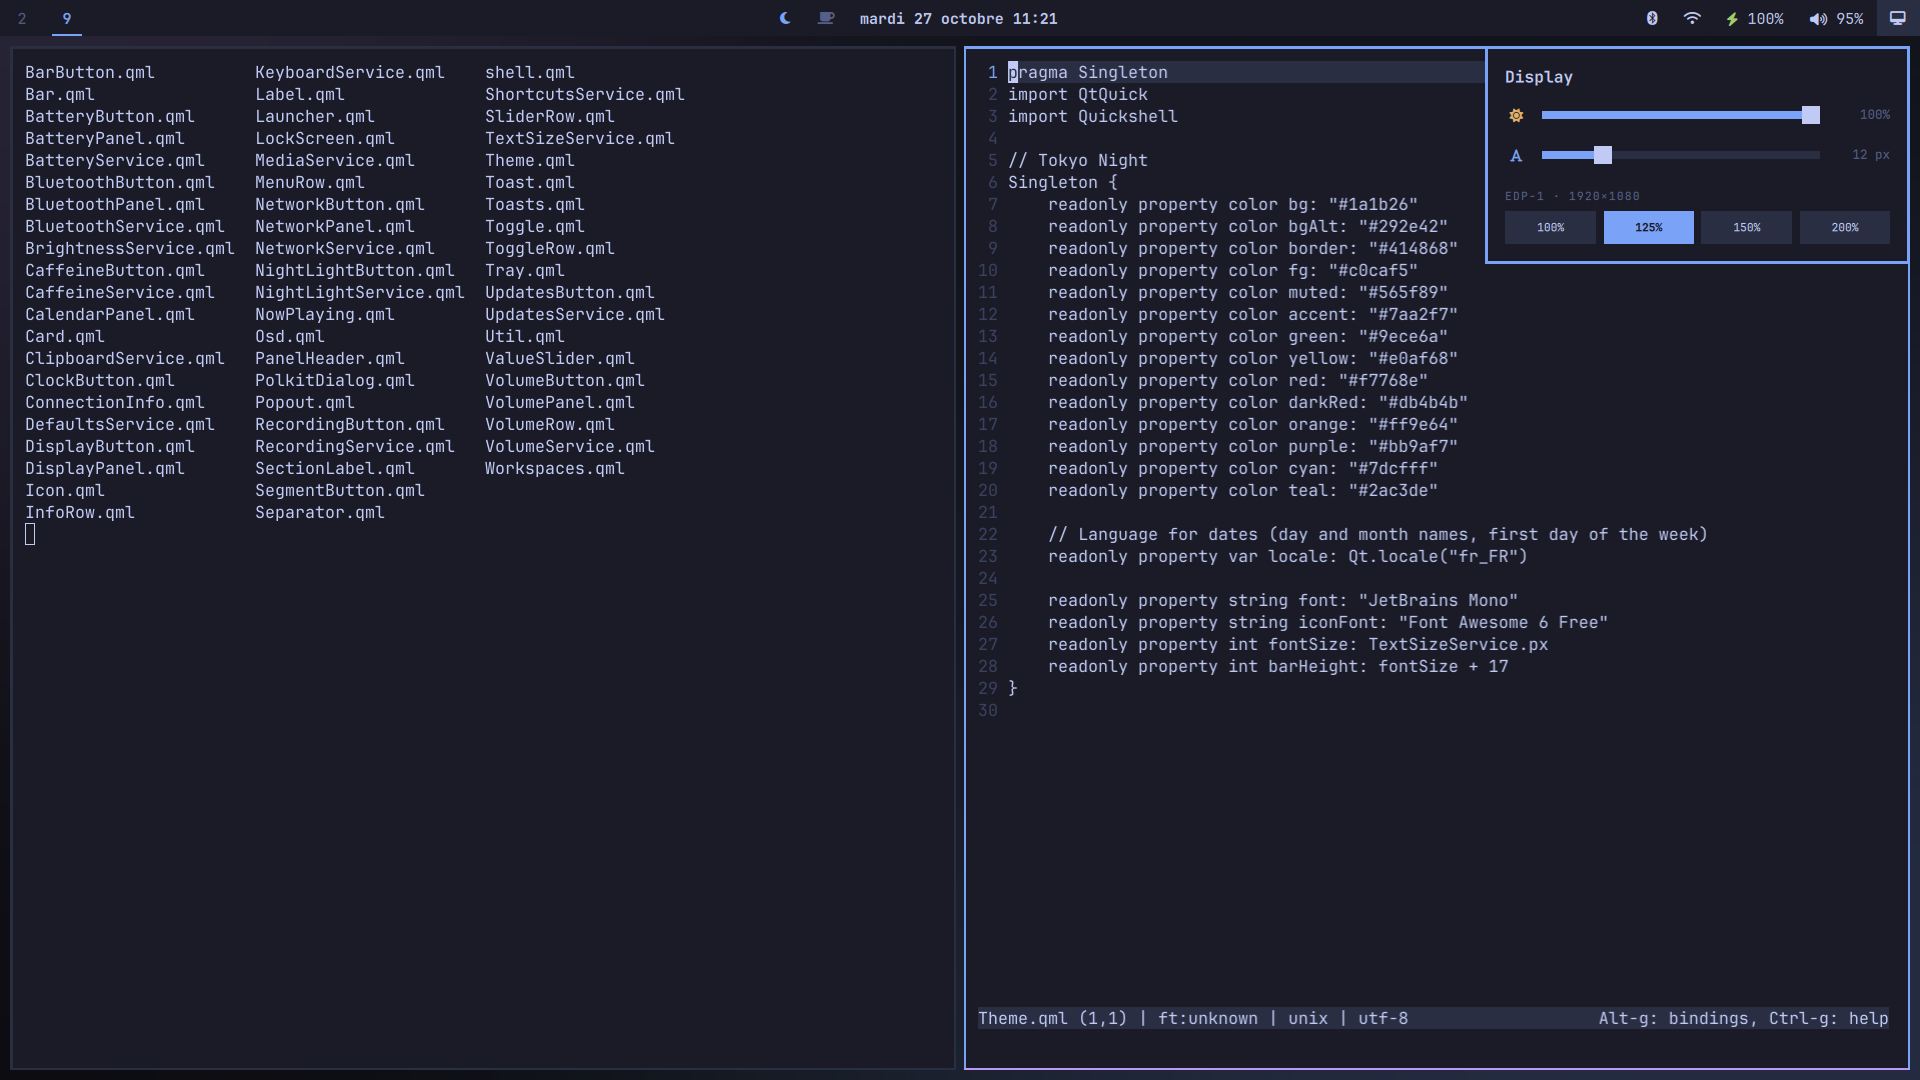
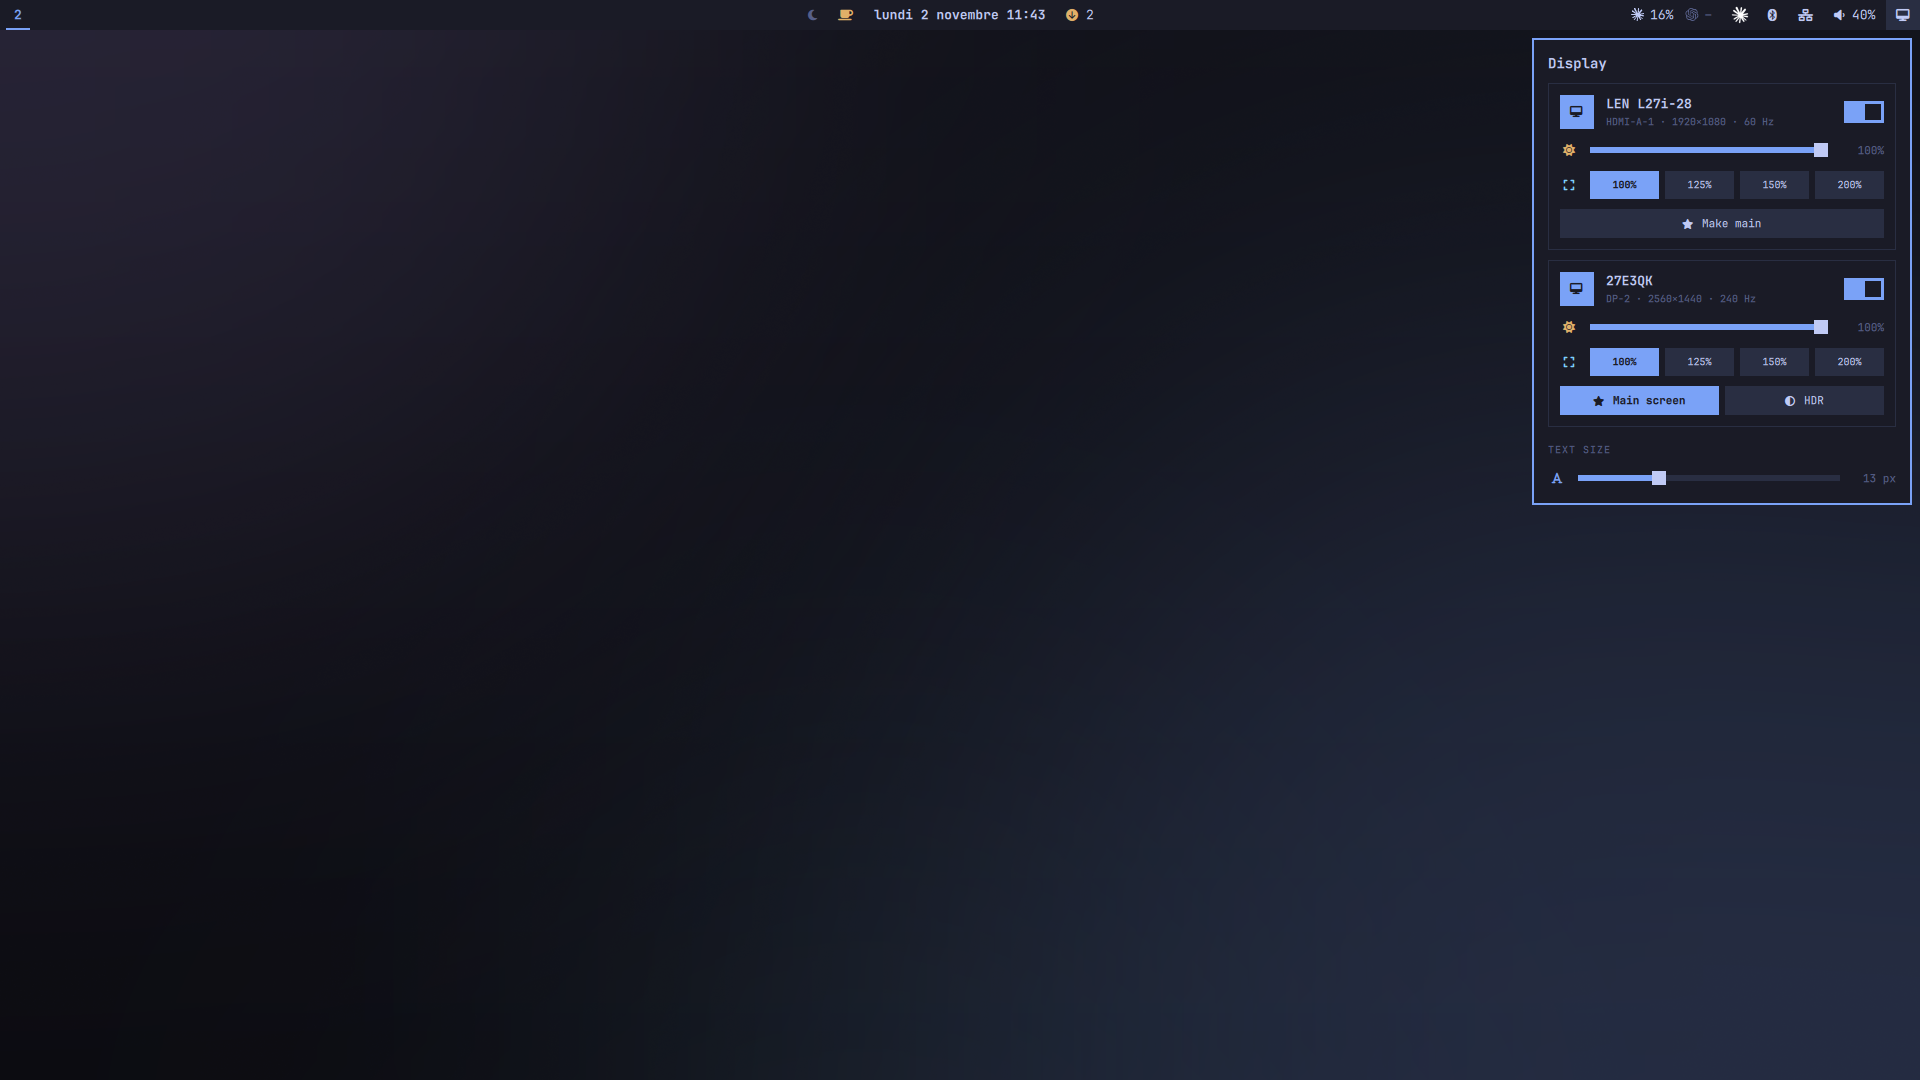
Display panel: redesigned, one card per screen

diff --git a/config/quickshell/DisplayPanel.qml b/config/quickshell/DisplayPanel.qml
@@ -2,13 +2,56 @@ import QtQuick
 import QtQuick.Layouts
 import Quickshell
 
+// One framed card per screen (on/off, brightness, scale, main screen, HDR), then the
+// shell's text size
 Popout {
     id: root
 
     readonly property var scales: [1, 1.25, 1.5, 2]
     readonly property int textRange: TextSizeService.maxPx - TextSizeService.minPx
 
-    cardWidth: 340
+    // Small on/off button with an icon, side by side with others under a screen
+    component Chip: Rectangle {
+        id: chip
+
+        property string icon
+        property string text
+        property bool checked: false
+        signal clicked()
+
+        Layout.fillWidth: true
+        Layout.preferredWidth: 1 // equal widths in a row
+        implicitHeight: row.implicitHeight + 14
+        color: checked ? Theme.accent : mouse.containsMouse ? Theme.border : Theme.bgAlt
+        Behavior on color { ColorAnimation { duration: 100 } }
+
+        RowLayout {
+            id: row
+            anchors.centerIn: parent
+            spacing: 8
+
+            Icon {
+                text: chip.icon
+                color: chip.checked ? Theme.bg : Theme.fg
+                font.pixelSize: Theme.fontSize - 3
+            }
+            Label {
+                text: chip.text
+                color: chip.checked ? Theme.bg : Theme.fg
+                font.pixelSize: Theme.fontSize - 2
+                font.bold: chip.checked
+            }
+        }
+
+        MouseArea {
+            id: mouse
+            anchors.fill: parent
+            hoverEnabled: true
+            onClicked: chip.clicked()
+        }
+    }
+
+    cardWidth: 380
 
     // Monitors' brightness may have been changed on the monitor itself
     Component.onCompleted: {
@@ -18,98 +61,163 @@ Popout {
 
     PanelHeader { title: "Display" }
 
-    SliderRow {
-        icon: "\uf031"
-        iconColor: Theme.accent
-        value: (TextSizeService.px - TextSizeService.minPx) / root.textRange
-        label: TextSizeService.px + " px"
-        onMoved: v => TextSizeService.set(TextSizeService.minPx + v * root.textRange)
-    }
-
-    // Per screen: on/off, brightness, main screen, HDR, scale
     Repeater {
         model: DisplayService.outputs
 
-        ColumnLayout {
+        Rectangle {
             id: screen
             required property var modelData
             readonly property string name: modelData.name
             readonly property bool active: modelData.active
+            readonly property bool builtIn: /^eDP/.test(name)
+            readonly property var mode: modelData.current_mode
+            readonly property bool multi: DisplayService.activeCount > 1
+            readonly property bool hdrCapable: DisplayService.hdrCapable.includes(name)
+
             Layout.fillWidth: true
-            spacing: 6
+            implicitHeight: body.implicitHeight + 24
+            color: "transparent"
+            border.color: Theme.bgAlt
+            border.width: 1
 
-            RowLayout {
-                Layout.fillWidth: true
-                spacing: 12
+            ColumnLayout {
+                id: body
+                anchors { left: parent.left; right: parent.right; top: parent.top; margins: 12 }
+                spacing: 10
 
-                SectionLabel {
-                    text: [screen.name, screen.modelData.model,
-                        screen.active ? screen.modelData.current_mode?.width + "×" + screen.modelData.current_mode?.height : "Off"]
-                        .filter(s => s).join(" · ")
-                    elide: Text.ElideRight
+                // Screen icon, name and mode, on/off switch
+                RowLayout {
                     Layout.fillWidth: true
-                }
-                // The last screen on can't be turned off
-                Toggle {
-                    Layout.topMargin: 6
-                    checked: screen.active
-                    enabled: !screen.active || DisplayService.activeCount > 1
-                    opacity: enabled ? 1 : 0.4
-                    onToggled: DisplayService.setEnabled(screen.name, !screen.active)
-                }
-            }
+                    spacing: 12
 
-            SliderRow {
-                visible: screen.active && BrightnessService.has(screen.name)
-                icon: "\uf185"
-                iconColor: Theme.yellow
-                value: BrightnessService.level(screen.name) / 100
-                label: BrightnessService.level(screen.name) + "%"
-                onMoved: v => BrightnessService.set(screen.name, v * 100)
-            }
+                    Rectangle {
+                        implicitWidth: 34
+                        implicitHeight: 34
+                        color: screen.active ? Theme.accent : Theme.bgAlt
+                        Behavior on color { ColorAnimation { duration: 150 } }
 
-            // With several screens on: picking another one moves the main screen there
-            ToggleRow {
-                visible: screen.active && DisplayService.activeCount > 1
-                text: "Main screen"
-                checked: DisplayService.primary === screen.name
-                enabled: !checked
-                onToggled: DisplayService.setPrimary(screen.name)
-            }
-
-            // Only for screens that take HDR10
-            ToggleRow {
-                visible: screen.active && DisplayService.hdrCapable.includes(screen.name)
-                text: "HDR"
-                checked: screen.modelData.hdr ?? false
-                onToggled: DisplayService.setHdr(screen.name, !checked)
-            }
-            Label {
-                visible: screen.active && DisplayService.hdrRefused === screen.name
-                text: "Sway couldn't turn HDR on: it needs its Vulkan renderer (WLR_RENDERER=vulkan at login)."
-                color: Theme.muted
-                font.pixelSize: Theme.fontSize - 2
-                wrapMode: Text.Wrap
-                Layout.fillWidth: true
-            }
-
-            RowLayout {
-                visible: screen.active
-                Layout.fillWidth: true
-                spacing: 6
-
-                Repeater {
-                    model: root.scales
-
-                    SegmentButton {
-                        required property real modelData
-                        text: Math.round(modelData * 100) + "%"
-                        padding: 7
-                        selected: Math.abs(screen.modelData.scale - modelData) < 0.01
-                        onClicked: DisplayService.setScale(screen.name, modelData)
+                        Icon {
+                            anchors.centerIn: parent
+                            text: screen.builtIn ? "" : ""
+                            color: screen.active ? Theme.bg : Theme.muted
+                            font.pixelSize: Theme.fontSize - 2
+                        }
                     }
+
+                    ColumnLayout {
+                        Layout.fillWidth: true
+                        spacing: 2
+
+                        Label {
+                            text: screen.builtIn ? "Built-in screen"
+                                : screen.modelData.model && screen.modelData.model !== "Unknown" ? screen.modelData.model
+                                : screen.name
+                            textFormat: Text.PlainText // from the screen's EDID
+                            color: screen.active ? Theme.fg : Theme.muted
+                            font.bold: true
+                            elide: Text.ElideRight
+                            Layout.fillWidth: true
+                        }
+                        Label {
+                            text: [screen.name,
+                                screen.active && screen.mode ? screen.mode.width + "×" + screen.mode.height : "Off",
+                                screen.active && screen.mode?.refresh ? Math.round(screen.mode.refresh / 1000) + " Hz" : ""]
+                                .filter(s => s).join(" · ")
+                            color: Theme.muted
+                            font.pixelSize: Theme.fontSize - 3
+                            elide: Text.ElideRight
+                            Layout.fillWidth: true
+                        }
+                    }
+
+                    // The last screen on can't be turned off
+                    Toggle {
+                        checked: screen.active
+                        enabled: !screen.active || screen.multi
+                        opacity: enabled ? 1 : 0.4
+                        onToggled: DisplayService.setEnabled(screen.name, !screen.active)
+                    }
+                }
+
+                SliderRow {
+                    visible: screen.active && BrightnessService.has(screen.name)
+                    icon: ""
+                    iconColor: Theme.yellow
+                    value: BrightnessService.level(screen.name) / 100
+                    label: BrightnessService.level(screen.name) + "%"
+                    onMoved: v => BrightnessService.set(screen.name, v * 100)
+                }
+
+                RowLayout {
+                    visible: screen.active
+                    Layout.fillWidth: true
+                    spacing: 6
+
+                    Icon {
+                        text: ""
+                        color: Theme.cyan
+                        horizontalAlignment: Text.AlignHCenter
+                        Layout.preferredWidth: 18
+                        Layout.rightMargin: 6 // lines the buttons up with the slider above
+                    }
+                    Repeater {
+                        model: root.scales
+
+                        SegmentButton {
+                            required property real modelData
+                            text: Math.round(modelData * 100) + "%"
+                            padding: 7
+                            selected: Math.abs(screen.modelData.scale - modelData) < 0.01
+                            onClicked: DisplayService.setScale(screen.name, modelData)
+                        }
+                    }
+                }
+
+                RowLayout {
+                    visible: screen.active && (screen.multi || screen.hdrCapable)
+                    Layout.fillWidth: true
+                    spacing: 6
+
+                    // With several screens on: picking another one moves the main screen there
+                    Chip {
+                        visible: screen.multi
+                        readonly property bool isMain: DisplayService.primary === screen.name
+                        icon: ""
+                        text: isMain ? "Main screen" : "Make main"
+                        checked: isMain
+                        enabled: !isMain
+                        onClicked: DisplayService.setPrimary(screen.name)
+                    }
+                    // Only for screens that take HDR10
+                    Chip {
+                        visible: screen.hdrCapable
+                        icon: ""
+                        text: "HDR"
+                        checked: screen.modelData.hdr ?? false
+                        onClicked: DisplayService.setHdr(screen.name, !checked)
+                    }
+                }
+
+                Label {
+                    visible: screen.active && DisplayService.hdrRefused === screen.name
+                    text: "Sway couldn't turn HDR on: it needs its Vulkan renderer (WLR_RENDERER=vulkan at login)."
+                    color: Theme.yellow
+                    font.pixelSize: Theme.fontSize - 2
+                    wrapMode: Text.Wrap
+                    Layout.fillWidth: true
                 }
             }
         }
+    }
+
+    // For the whole shell, on every screen
+    SectionLabel { text: "Text size" }
+
+    SliderRow {
+        icon: ""
+        iconColor: Theme.accent
+        value: (TextSizeService.px - TextSizeService.minPx) / root.textRange
+        label: TextSizeService.px + " px"
+        onMoved: v => TextSizeService.set(TextSizeService.minPx + v * root.textRange)
     }
 }
